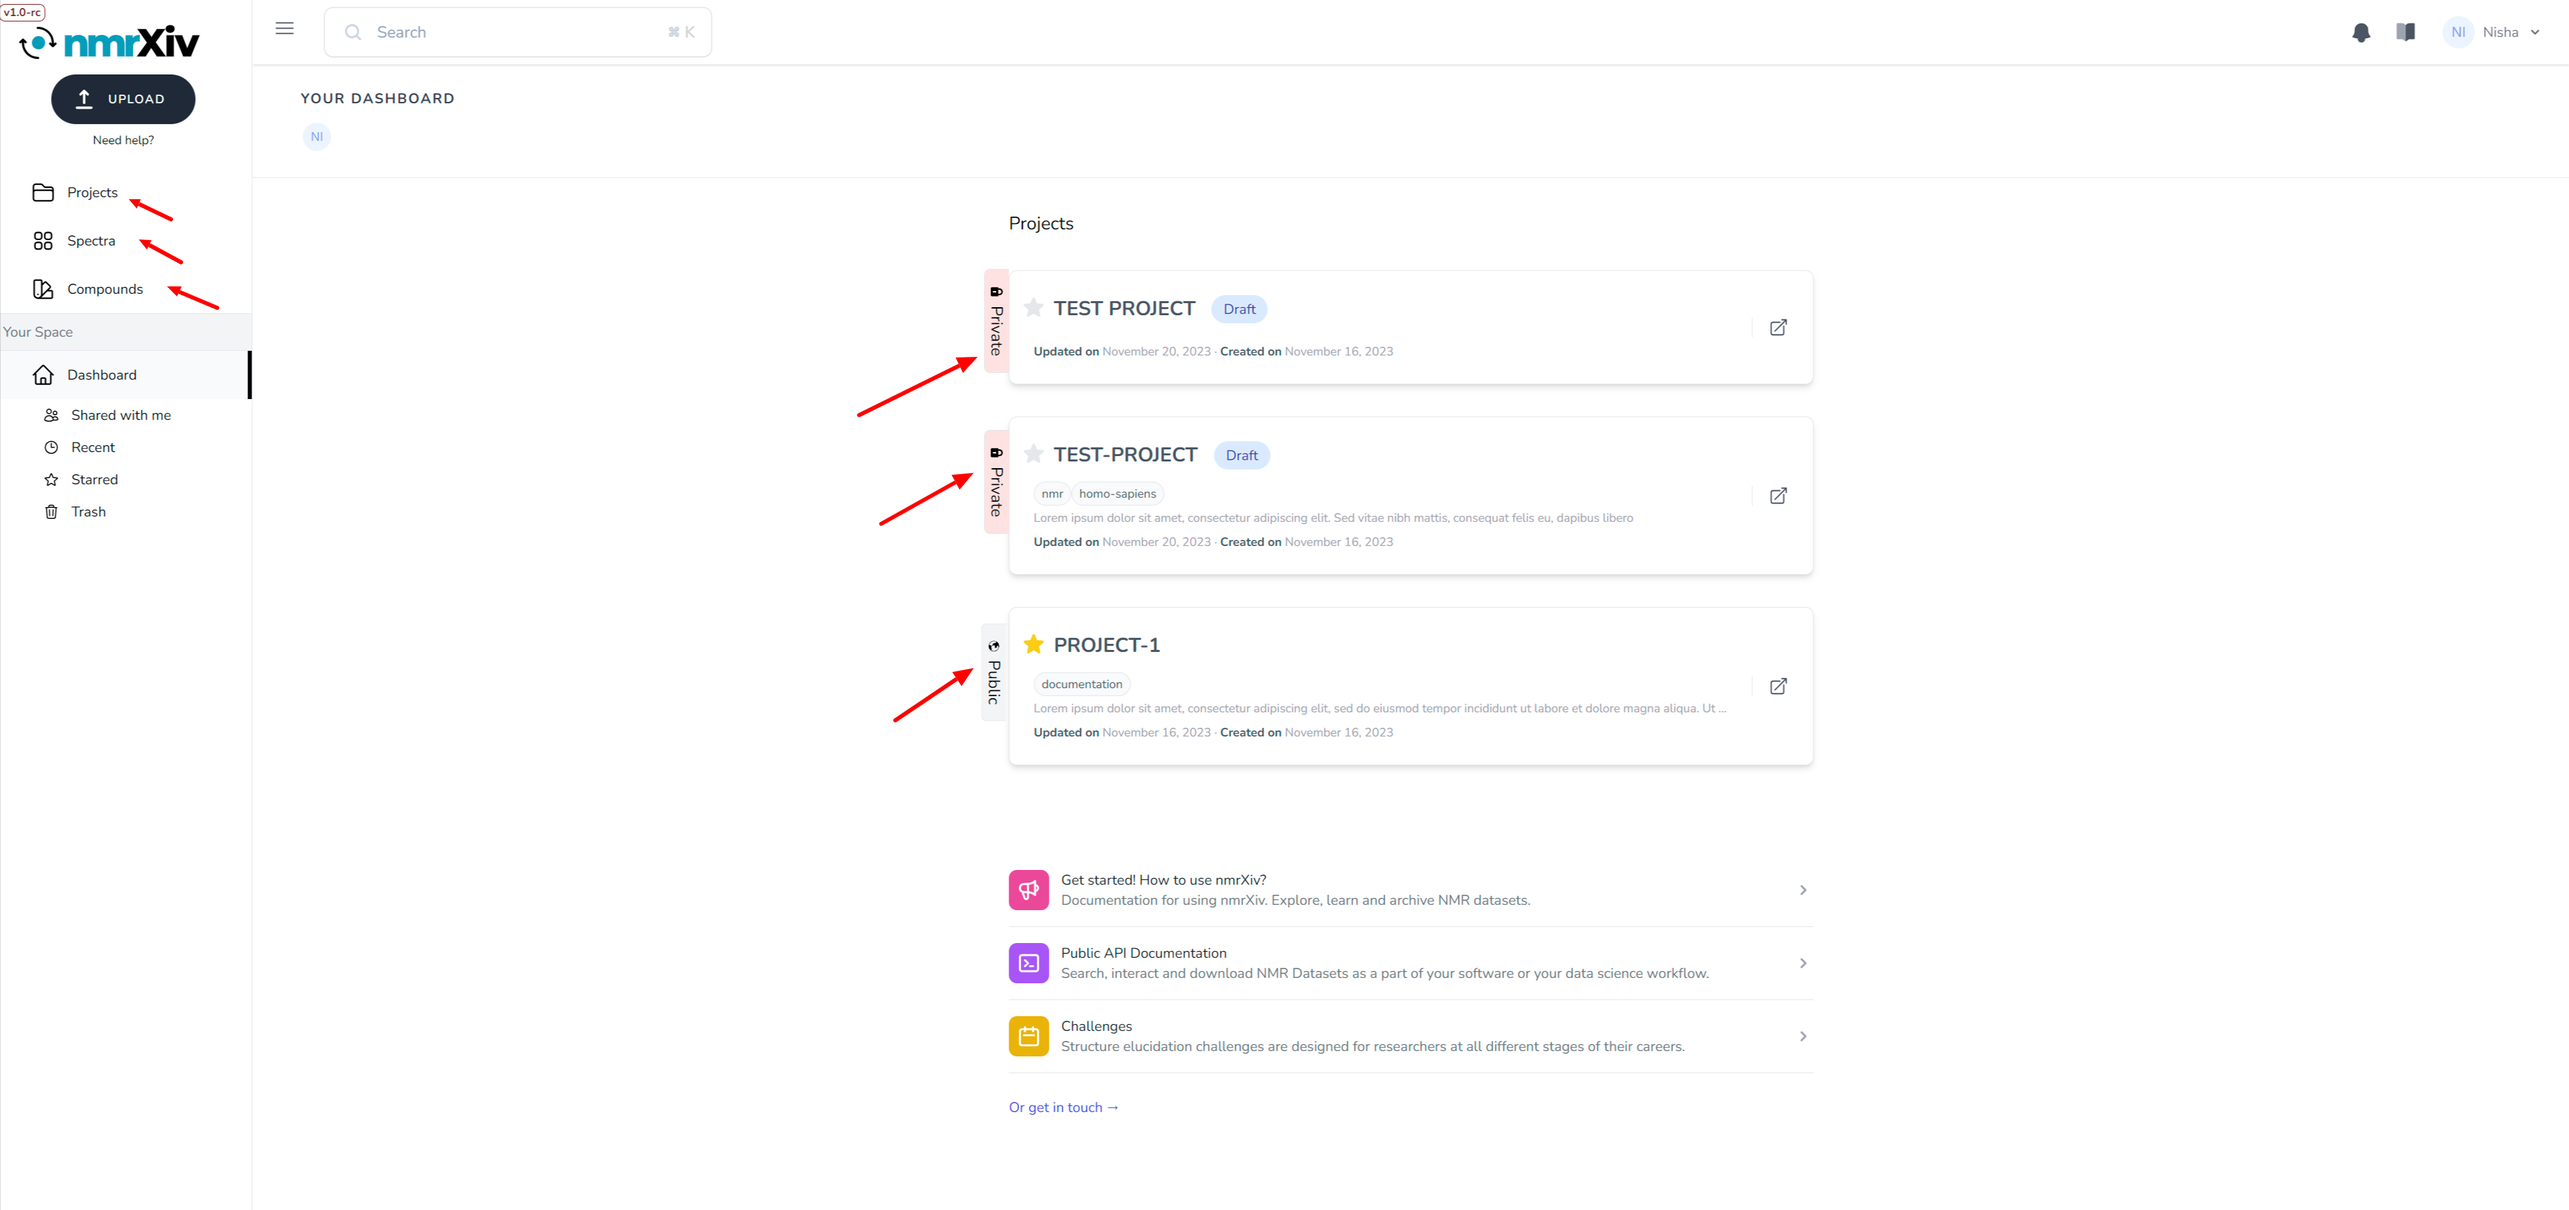
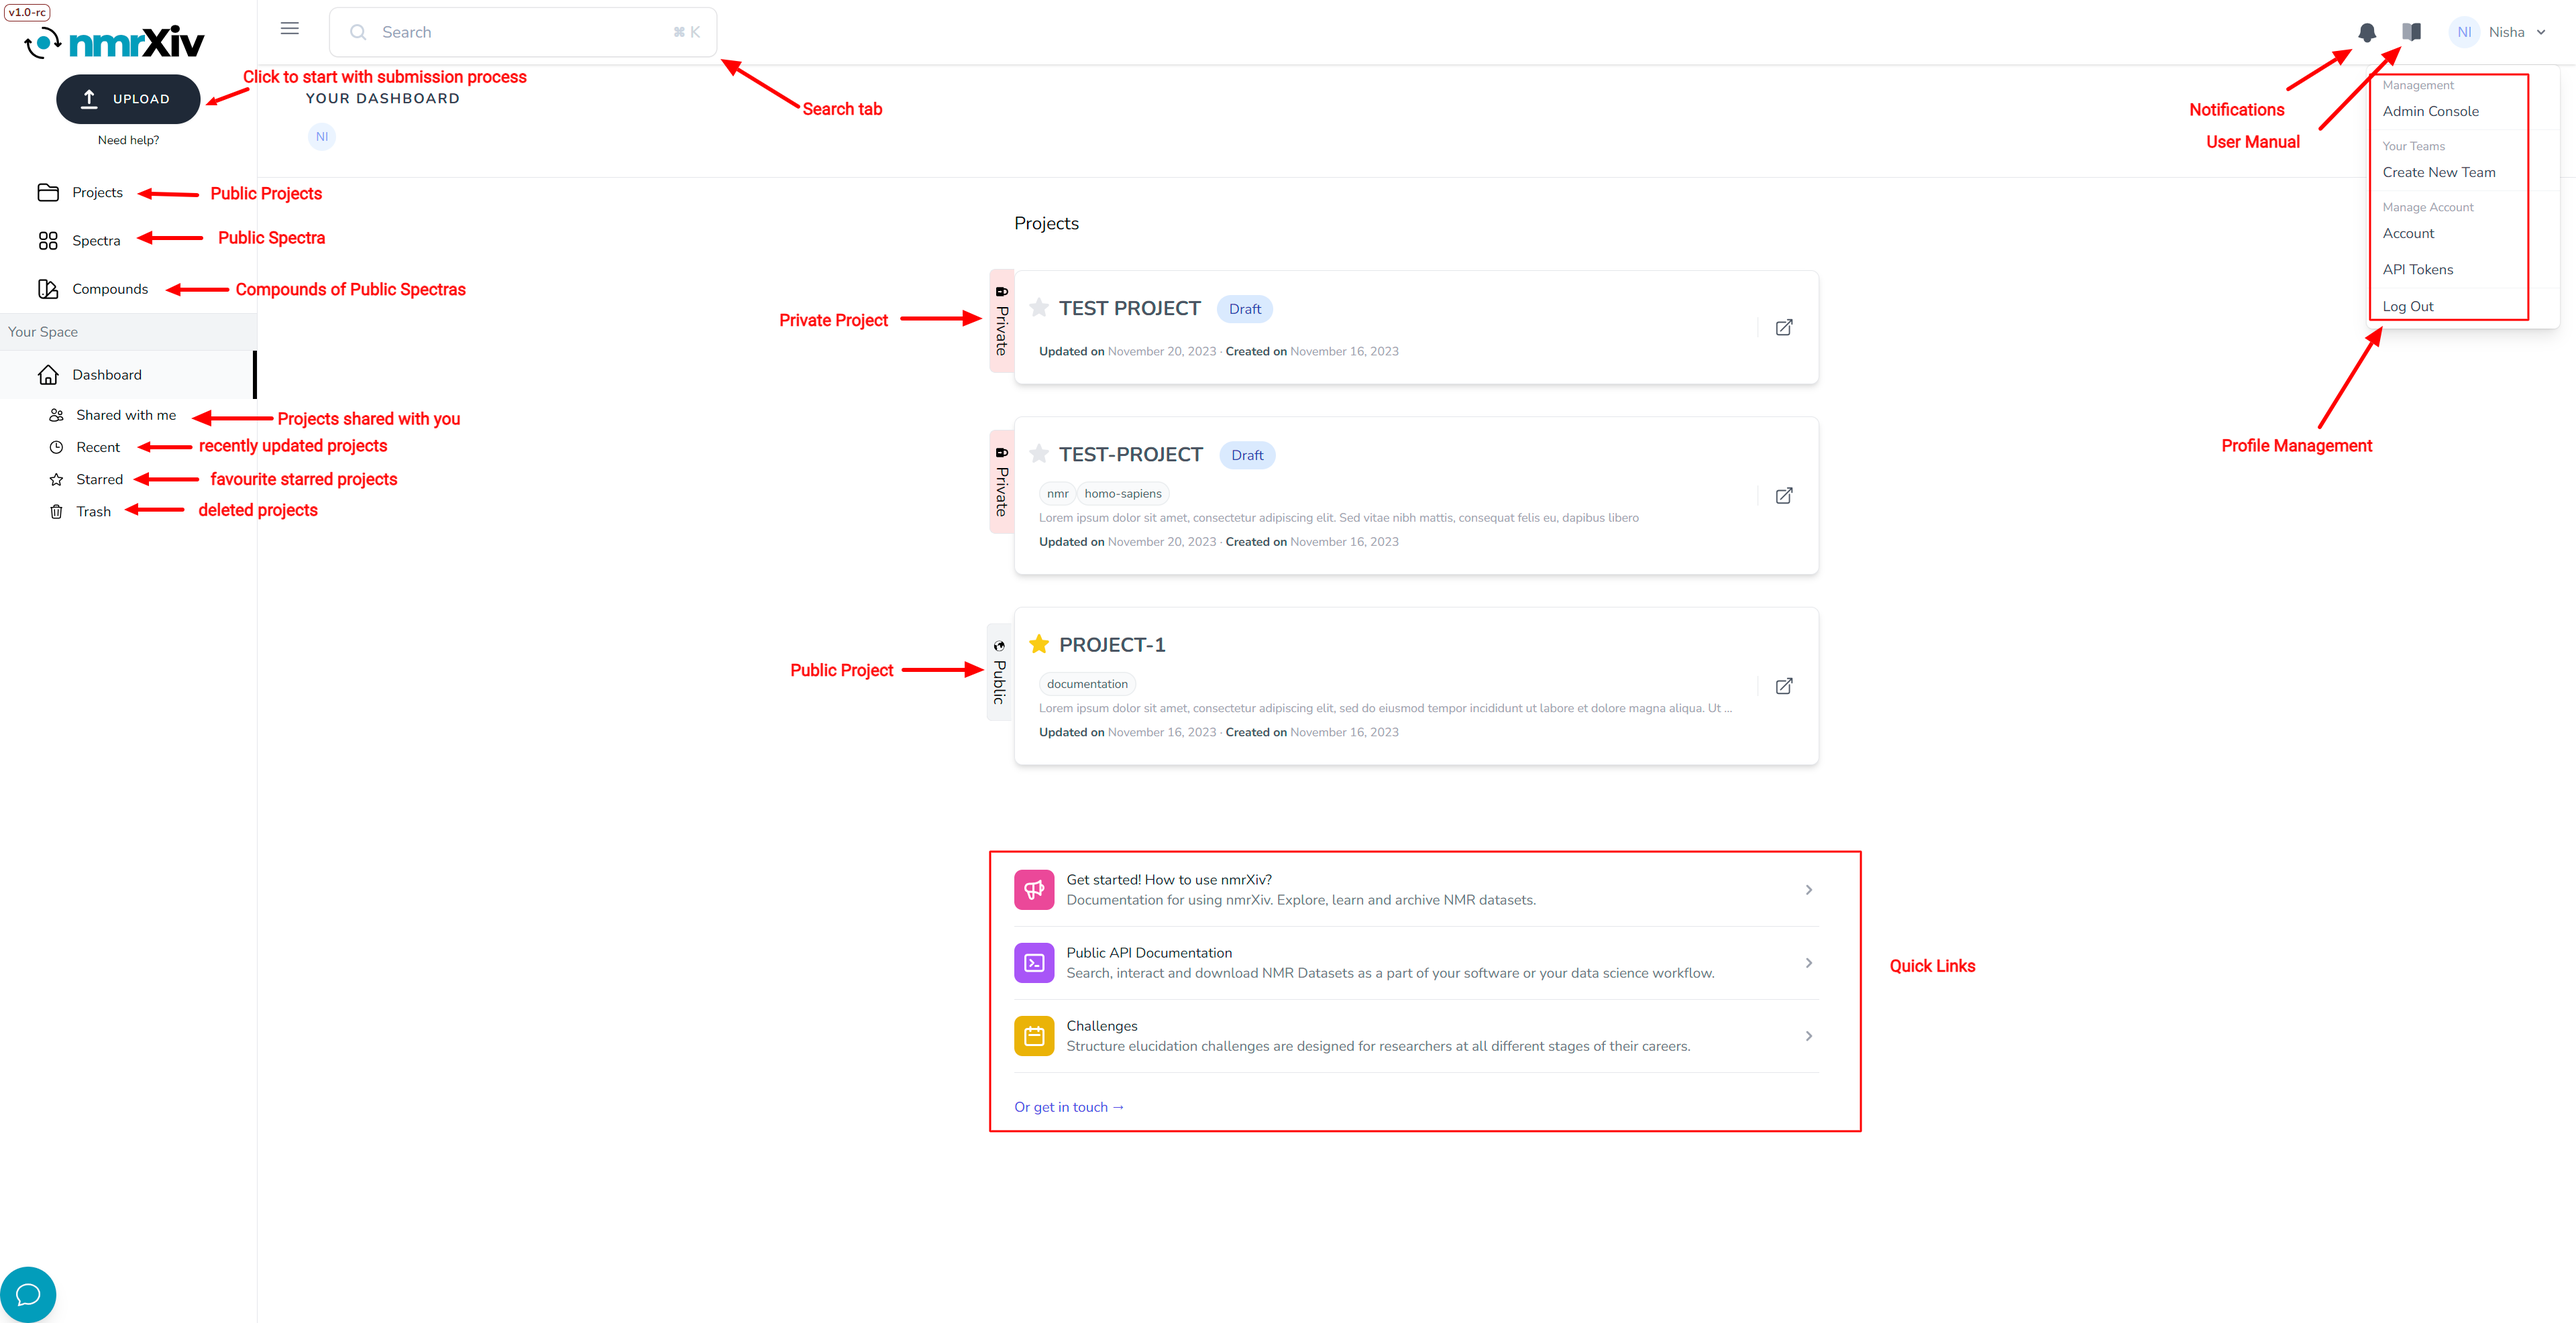
docs: dashboard

diff --git a/docs/submission-guides/dashboard.md b/docs/submission-guides/dashboard.md
@@ -1,10 +1,28 @@
- In the center, you will find a list of all your private or public projects, whether created by you or your team if you are on the Team's dashboard. You can click on individual project and edit On the left sidebar, under
-  - `Projects` - is where you can find all the public projects.
-  - `Spectra`  - public samples.
-  - `Compound` - compounds of public samples.
+ # Dashboard
+ 
+The dashboard is the initial page you will land on upon logging into [nmrXiv](https://nmrxiv.org). This page provides a brief tour of the interface.
 
-For complete tour of the dashboard please refer to the [dashboard](/submission-guides/dashboard.html) section.
+In the center, you'll discover a list of all your private or public projects, whether initiated by you individually or by your team if you're on the Team's dashboard. You can click on each project to view its details, but please note that once a project is made public, all information becomes read-only and cannot be edited any longer. For those still marked as private, you'll see a `Private` flag next to them, also indicated as `Draft`. Conversely, projects marked as 'public' can be identified by the appearance of a `Public` flag next to them.
+
+On the left sidebar is where you can find:
+  - `Projects` - all the public projects.
+  - `Spectra`  - all the public samples.
+  - `Compound` - compounds of all the public samples.
 
 <p align="center">
 <img src="/img/dashboard/dashboard.png" width="1000"/>
 </p>
+
+Under Your space you will find the quick links for following:
+  - `Shared with me` - this contains the list of projects which are shared with you by another nmrXiv users. Click [here](/submission-guides/sharing.html) to learn more about sharing.
+  - `Recent` - all the recently updated projects are listed here.
+  - `Starred` - you can star your favorite projects, and they will appear here for quick access.
+  - `Trash` -  you can delete your public project, and it will remain here until it is permanently deleted after the 30-day cool-off period. You have the option to restore your project from this location before the cool-off period ends.
+
+
+<p align="center">
+<img src="/img/dashboard/dashboard-tour.gif" width="1000"/>
+</p>
+
+A brief clip highlighting the dashboard tour.
+

diff --git a/docs/submission-guides/submission-process.md b/docs/submission-guides/submission-process.md
@@ -13,6 +13,7 @@ Before you start submitting your data, you need to:
 - A project can have multiple samples -  A sample study corresponds to a group of NMR experiments of one sample, e.g. 1H, 13C, APT, COSY HSQC, HMBC, NOESY in Bruker Format or (another study) in another format such as JCAMP-DX / Variant.
 - Each NMR measurement in a sample study is referred to as a dataset, e.g. 1H NMR or COSY (are each a dataset).
 - nmrXiv allows you to upload NMR raw data from any NMR instrument. We can currently auto-detect Bruker/Varian/JOEL formats & JCAMP files and will support more raw & processed file formats soon. Once you upload your raw or processed NMR data, nmrXiv will auto-generate the samples and datasets for you based on the uploaded folder structure.
+- Once your project is made public you will not be able to edit the information.
 
 <p align="center">
 <img src="/img/primer.png" width="1000"/>
@@ -115,6 +116,8 @@ If you choose to publish as a `Project`, you need to provide the necessary minim
   - `License` - license is mandatory for making your data public. If you are not sure which license to use, please check the link [How to choose the right license?](/submission-guides/licenses.html).
   - `Terms & Conditions` - please check the boxes if you agree to the [Terms of Service](https://nmrxiv.org/terms-of-service) and [Privacy Policy](https://nmrxiv.org/privacy-policy) of the [nmrXiv](https://nmrxiv.org) and also please note once you publish your data, you are aware that your data including the underlying spectras and files will be made public.
 
+  ::: danger Please be aware that once the project is made public, it cannot be edited any further and cannot be reverted to a private status.
+  ::: 
 <p align="center">
 <img src="/img/upload/final-details-1.png" width="1000"/>
 </p>
